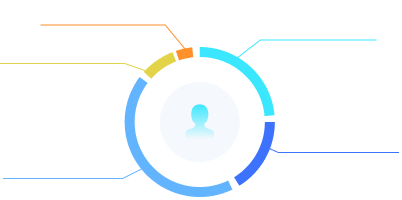
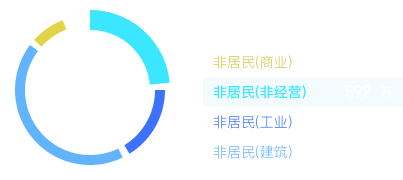
✨ feature: 微调组件

Changed region(s): [[0.0, 0.0556, 1.0, 1.0], [0.4179, 0.1389, 0.4478, 0.2222]]

diff --git a/src/components/gc-pie-7/index.vue b/src/components/gc-pie-7/index.vue
@@ -1,18 +1,37 @@
 <template lang="pug">
-.gc-pie-7.pos-r.fn-flex.flex-column
+.gc-pie-7.pos-r.fn-flex
 	.gc-pie-7-chart(ref="chartDom")
-	.gc-pie-7-value.pos-a.fn-flex.flex-column
-		h2.text-center
+	.gc-pie-7-value.font-num.pos-a
+		span.fn-flex {{ currentRatio }}
+		ul.pos-a
+			p.pos-a(v-for="(item, index) in icon", :key="index", :style="{ transform: `rotate(${7.2 * index}deg)` }")
+	.gc-pie-7-unit.fn-flex.flex-column(@mouseover="mouseover", @mouseleave="mouseleave")
+		.gc-pie-7-unit-list(:style="style")
+			.gc-pie-7-unit-item.fn-flex.cursor-pointer(
+				v-for="(item, index) in currentValue",
+				:key="index",
+				:class="{ active: index === activeIndex }",
+				@click="handlerClick(index)"
+			)
+				h2.ellipsis(:style="{ color: color[index % color.length] }") {{ item.label }}
+				p.font-num {{ item.value }}
+				span {{ unit }}
 </template>
 <script lang="ts">
-import { defineComponent, reactive, toRefs, watch, onMounted, ref } from 'vue'
+import { defineComponent, reactive, toRefs, watch, onMounted, ref, computed, PropType } from 'vue'
 import options from './options'
+
+type ModelValueProps = {
+	value: number
+	label: string
+	ratio: number
+}
 
 export default defineComponent({
 	name: 'GcPie7',
 	props: {
 		modelValue: {
-			type: Array,
+			type: Array as PropType<ModelValueProps[]>,
 			default() {
 				return []
 			},
@@ -20,12 +39,16 @@ export default defineComponent({
 		color: {
 			type: Array,
 			default() {
-				return ['#FF902A', '#E2D348', '#63B4FF', '#3C72FD', '#3CE8FF']
+				return ['#FFFFFF', '#D5C847', '#3BE8FF', '#3C72FD', '#63B4FF']
 			},
 		},
 		unit: {
 			type: String,
-			default: '%',
+			default: '户',
+		},
+		showSize: {
+			type: Number,
+			default: 4,
 		},
 	},
 	emits: ['update:modelValue', 'change'],
@@ -33,6 +56,32 @@ export default defineComponent({
 		const chartDom = ref<null | HTMLElement>(null)
 		const state = reactive({
 			currentValue: props.modelValue,
+			activeIndex: 0,
+			timer: null as any,
+			icon: new Int8Array(50),
+		})
+		const style = computed(() => {
+			if (state.currentValue) {
+				if (state.currentValue.length <= props.showSize + 1) {
+					return { transform: 'translateY(0px)' }
+				} else {
+					if (state.activeIndex > props.showSize) {
+						const top = (state.activeIndex - props.showSize) * 36
+						return { transform: `translateY(-${top}px)` }
+					} else {
+						return { transform: 'translateY(0px)' }
+					}
+				}
+			}
+			return { transform: 'translateY(0px)' }
+		})
+		const currentRatio = computed(() => {
+			if (state.currentValue) {
+				if (state.currentValue.length) {
+					return `${state.currentValue[state.activeIndex].ratio}%`
+				}
+			}
+			return `0%`
 		})
 		let myChart: any = null
 		watch(
@@ -42,9 +91,58 @@ export default defineComponent({
 				init()
 			},
 		)
+		const mouseleave = () => {
+			clearInterval(state.timer)
+			if (state.currentValue.length) {
+				myChart.setOption(options(state.currentValue, props))
+				myChart.dispatchAction({
+					type: 'highlight',
+					seriesIndex: 0,
+					dataIndex: (state.activeIndex % state.currentValue.length) * 2,
+				})
+			}
+			state.timer = setInterval(() => {
+				myChart.dispatchAction({
+					type: 'downplay',
+					seriesIndex: 0,
+					dataIndex: (state.activeIndex % state.currentValue.length) * 2,
+				})
+				if (state.activeIndex >= state.currentValue.length - 1) {
+					state.activeIndex = 0
+				} else {
+					state.activeIndex = state.activeIndex + 1
+				}
+				myChart.setOption(options(state.currentValue, props))
+				myChart.dispatchAction({
+					type: 'highlight',
+					seriesIndex: 0,
+					dataIndex: (state.activeIndex % state.currentValue.length) * 2,
+				})
+			}, 2000)
+		}
+		const handlerClick = index => {
+			state.activeIndex = index
+			myChart.setOption(options(state.currentValue, props))
+			// @ts-ignore
+			state.currentValue.map((item, index) => {
+				myChart.dispatchAction({
+					type: 'downplay',
+					seriesIndex: 0,
+					dataIndex: (index % state.currentValue.length) * 2,
+				})
+			})
+			myChart.dispatchAction({
+				type: 'highlight',
+				seriesIndex: 0,
+				dataIndex: (state.activeIndex % state.currentValue.length) * 2,
+			})
+		}
 		const init = () => {
 			chartDom.value && !myChart && (myChart = window.echarts.init(chartDom.value))
-			myChart.setOption(options(state.currentValue, props))
+			mouseleave()
+		}
+		const mouseover = () => {
+			clearInterval(state.timer)
 		}
 		onMounted(() => {
 			init()
@@ -57,41 +155,115 @@ export default defineComponent({
 			...toRefs(state),
 			chartDom,
 			handleChange,
+			handlerClick,
+			currentRatio,
+			style,
+			mouseover,
+			mouseleave,
 		}
 	},
 })
 </script>
 <style lang="scss" scoped>
 .gc-pie-7 {
-	height: 200px;
-	width: 402px;
+	height: 216px;
+	width: 403px;
 	align-items: center;
 	user-select: none;
-	justify-content: center;
-}
-.gc-pie-7-chart {
-	height: 200px;
-	width: 402px;
+	.gc-pie-7-chart,
+	.gc-pie-7-value {
+		height: 180px;
+		width: 180px;
+	}
 }
 .gc-pie-7-value {
-	height: 200px;
-	width: 402px;
 	font-weight: 700;
 	font-size: 34px;
-	left: 50%;
-	transform: translateX(-50%);
-	align-items: center;
-	justify-content: center;
+	color: #fff;
+	&:before {
+		content: '';
+		position: absolute;
+		width: 180px;
+		height: 180px;
+		top: 50%;
+		left: 50%;
+		transform: translateX(-50%) translateY(-50%);
+		border-radius: 180px;
+		border: 1px solid rgba(255, 255, 255, 0.2);
+	}
+	&:after {
+		content: '';
+		position: absolute;
+		width: 126px;
+		height: 126px;
+		top: 50%;
+		left: 50%;
+		transform: translateX(-50%) translateY(-50%);
+		border-radius: 120px;
+		border: 1px solid rgba(255, 255, 255, 0.2);
+		box-shadow: 0 0 0 27px rgba(255, 255, 255, 0.05);
+	}
 	span {
-		font-weight: 400;
-		font-size: 20px;
-		color: #c0c1c8;
+		margin-top: 4px;
+		height: 100%;
+		width: 100%;
+		align-items: center;
+		justify-content: center;
+	}
+	ul {
+		top: 50%;
+		left: 50%;
+		transform: translateX(-50%) translateY(-50%);
+		width: 106px;
+		height: 106px;
+
+		p {
+			top: 3%;
+			left: 50%;
+			width: 4px;
+			height: 6px;
+			background-color: rgba(255, 255, 255, 0.2);
+			transform-origin: 0 50px;
+		}
+	}
+}
+.gc-pie-7-unit {
+	height: 216px;
+	flex: 1;
+	overflow: hidden;
+	justify-content: center;
+	margin-left: 23px;
+}
+.gc-pie-7-unit-list {
+	transition: all 0.3s;
+}
+.gc-pie-7-unit-item {
+	align-items: center;
+	width: 100%;
+	height: 28px;
+	padding: 0 10px;
+	+ .gc-pie-7-unit-item {
+		margin-top: 2px;
+	}
+	&.active {
+		background: rgba(0, 100, 156, 0.4);
 	}
 	h2 {
+		font-weight: 400;
+		font-size: 18px;
+		margin-right: auto;
+	}
+	p {
 		font-weight: 700;
-		font-size: 36px;
+		font-size: 18px;
 		color: #ffffff;
 		margin-top: 4px;
+	}
+	span {
+		font-weight: 400;
+		font-size: 14px;
+		margin-left: 8px;
+		color: #ffffff;
 	}
 }
 </style>

diff --git a/src/components/gc-pie-7/options.ts b/src/components/gc-pie-7/options.ts
@@ -1,34 +1,16 @@
 export default (data, props) => {
-	let value: any[] = []
-	data.forEach((item, index) => {
+	const value: any[] = []
+	data.map((item, index) => {
 		value.push({
 			value: item.value,
-			labelLine: {
-				length: 20,
-				length2: 100,
-			},
-			label: {
-				show: true,
-				formatter: params => {
-					if (data[params.dataIndex])
-						return `${data[params.dataIndex].name}${data[params.dataIndex].value}${
-							data[params.dataIndex].ratio
-						}%${props.unit}`
-				},
-			},
 			itemStyle: {
 				normal: {
-					color: props.color[index],
+					color: props.color[index % props.color.length],
 				},
 			},
 		})
 		value.push({
 			value: 0.001,
-			labelLine: {
-				normal: {
-					show: false,
-				},
-			},
 			itemStyle: {
 				normal: {
 					color: 'rgba(0,0,0,0)',
@@ -37,14 +19,18 @@ export default (data, props) => {
 		})
 	})
 	return {
-		color: props.color,
 		series: [
 			{
 				minAngle: 6,
-				data: value,
 				type: 'pie',
-				startAngle: 90,
-				radius: ['80%', '95%'],
+				radius: ['70%', '85%'],
+				center: ['50%', '50%'],
+				labelLine: {
+					normal: {
+						show: false,
+					},
+				},
+				data: value,
 			},
 		],
 	}

diff --git a/src/pages/WorkOrderPayment/components/right-one.vue b/src/pages/WorkOrderPayment/components/right-one.vue
@@ -3,7 +3,7 @@ gc-title(label="应收组成")
 	gc-date1(@init="init", @change="init")
 .fn-flex(style="margin-top: 18px")
 	gc-tab4(size="small", :options="options", style="margin-right: auto")
-	gc-pie7(v-model="list", unit="万元")
+	gc-pie7(v-model="list", unit="万")
 </template>
 <script lang="ts">
 import { defineComponent, reactive, toRefs } from 'vue'
@@ -18,11 +18,11 @@ export default defineComponent({
 				{ label: '本月气量(m³)', value: '本月气量(m³)', count: 1 },
 			],
 			list: [
-				{ value: 10, ratio: 10, name: '非居民(工业)' },
-				{ value: 20, ratio: 20, name: '非居民(建筑)' },
-				{ value: 30, ratio: 30, name: '居民户' },
-				{ value: 20, ratio: 20, name: '非居民(商业)' },
-				{ value: 20, ratio: 20, name: '非居民(非经营)' },
+				{ value: 30, ratio: 30, label: '居民户' },
+				{ value: 10, ratio: 10, label: '非居民(工业)' },
+				{ value: 20, ratio: 20, label: '非居民(建筑)' },
+				{ value: 20, ratio: 20, label: '非居民(商业)' },
+				{ value: 20, ratio: 20, label: '非居民(非经营)' },
 			],
 		})
 		const init = async () => {}

diff --git a/src/components/gc-pie-2/index.vue b/src/components/gc-pie-2/index.vue
@@ -224,7 +224,6 @@ export default defineComponent({
 			left: 50%;
 			width: 4px;
 			height: 6px;
-			margin-left: -1px;
 			background-color: rgba(255, 255, 255, 0.2);
 			transform-origin: 0 74px;
 		}
